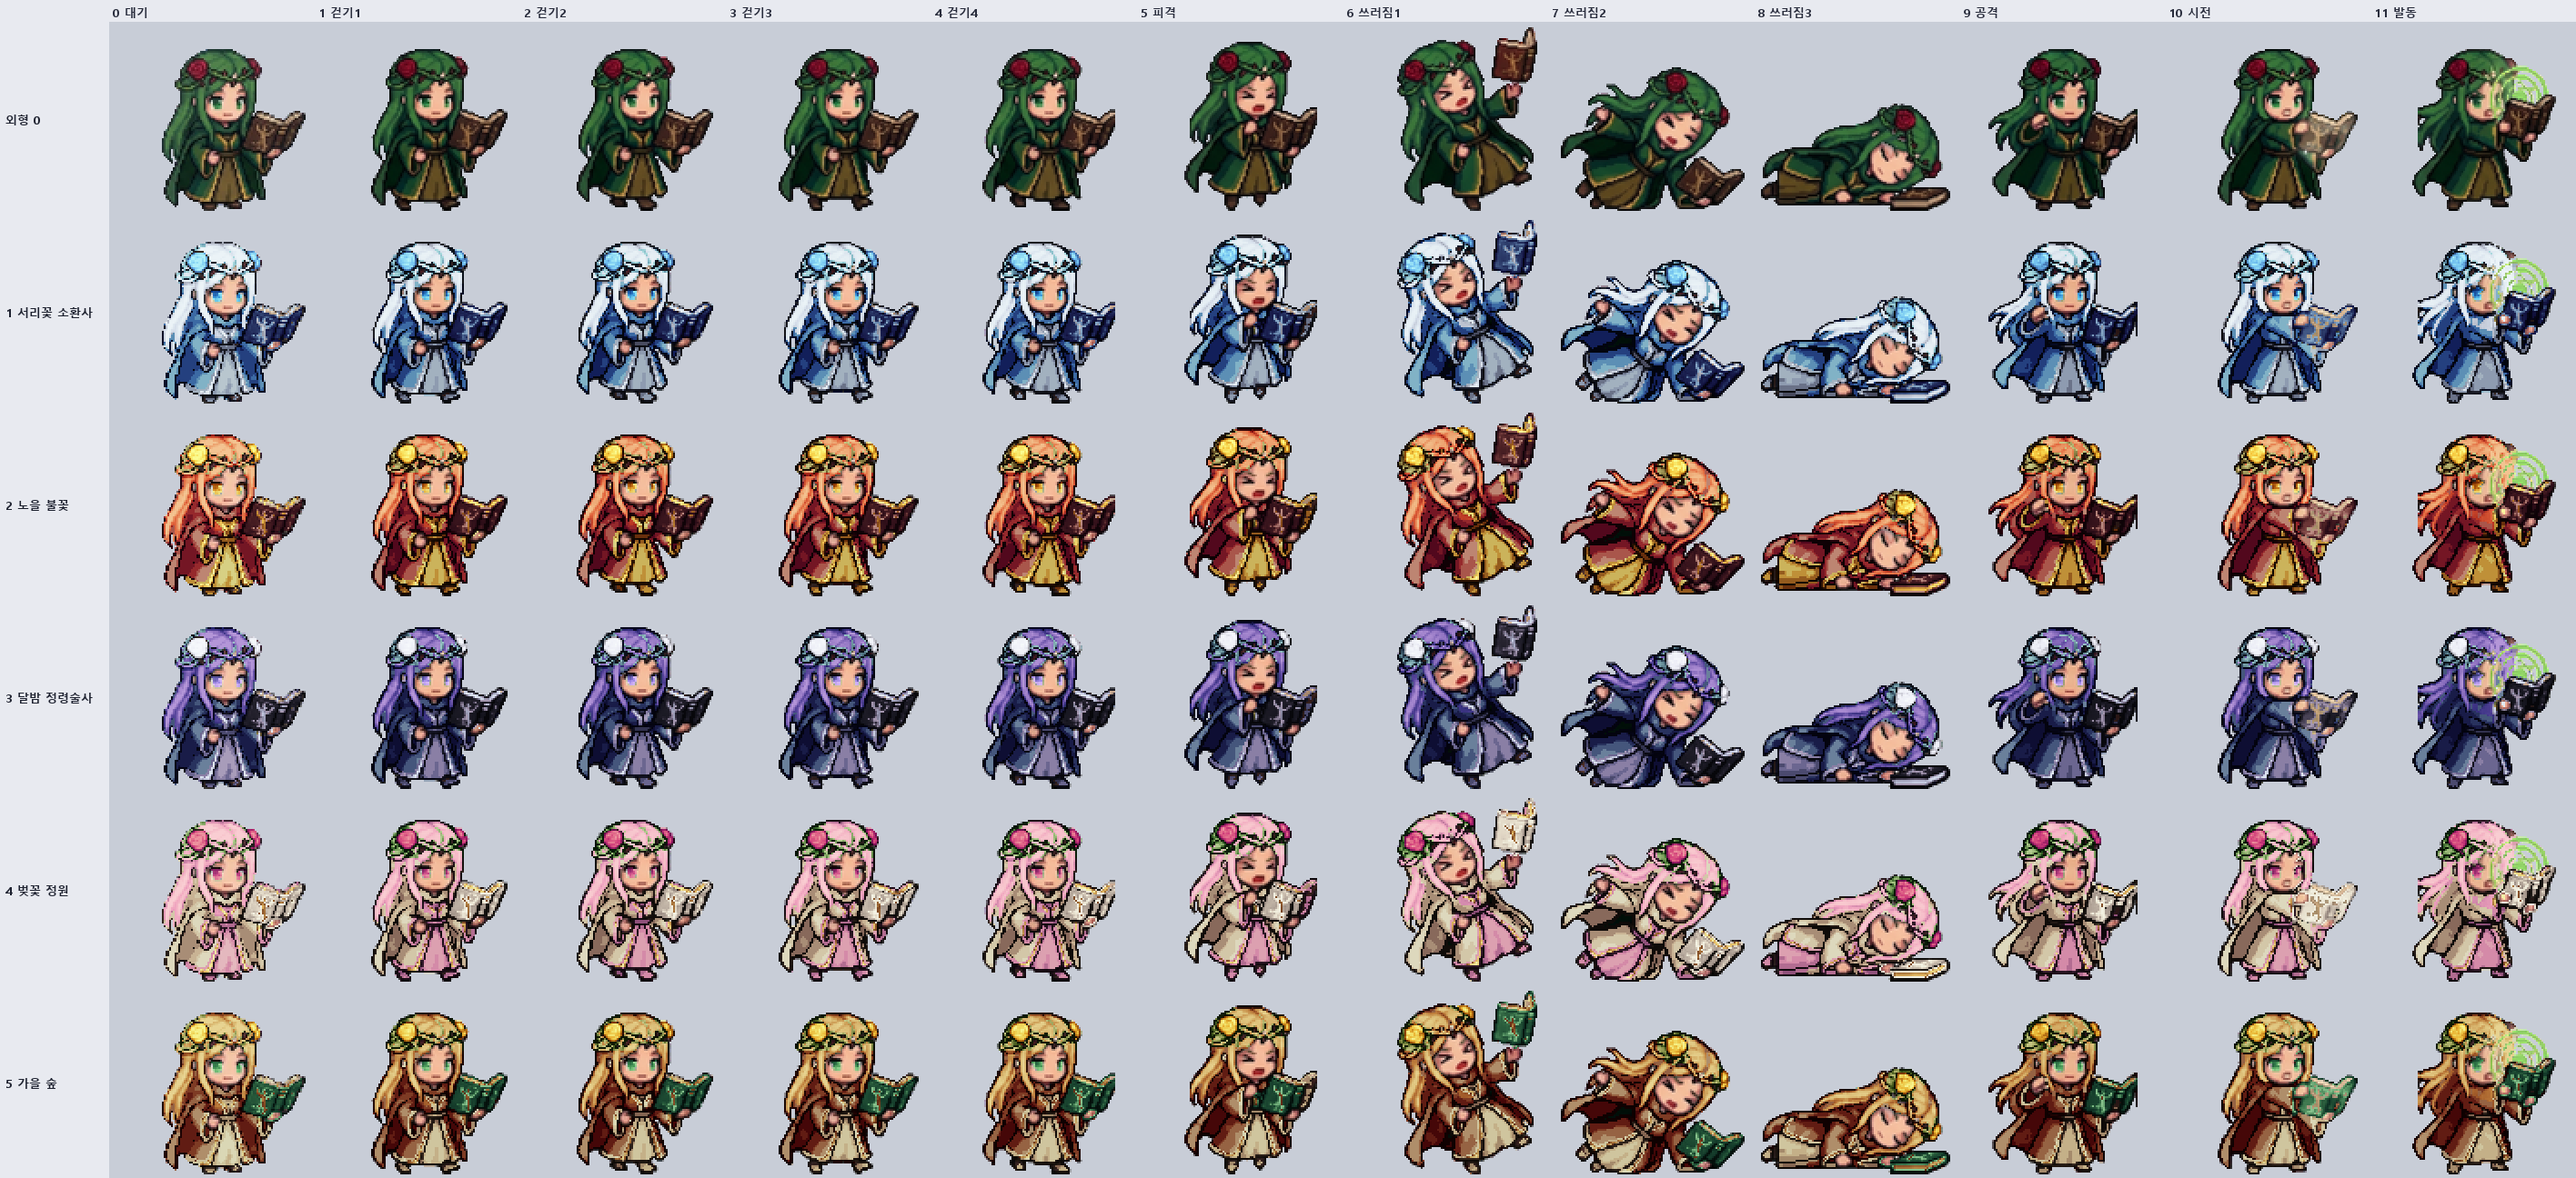
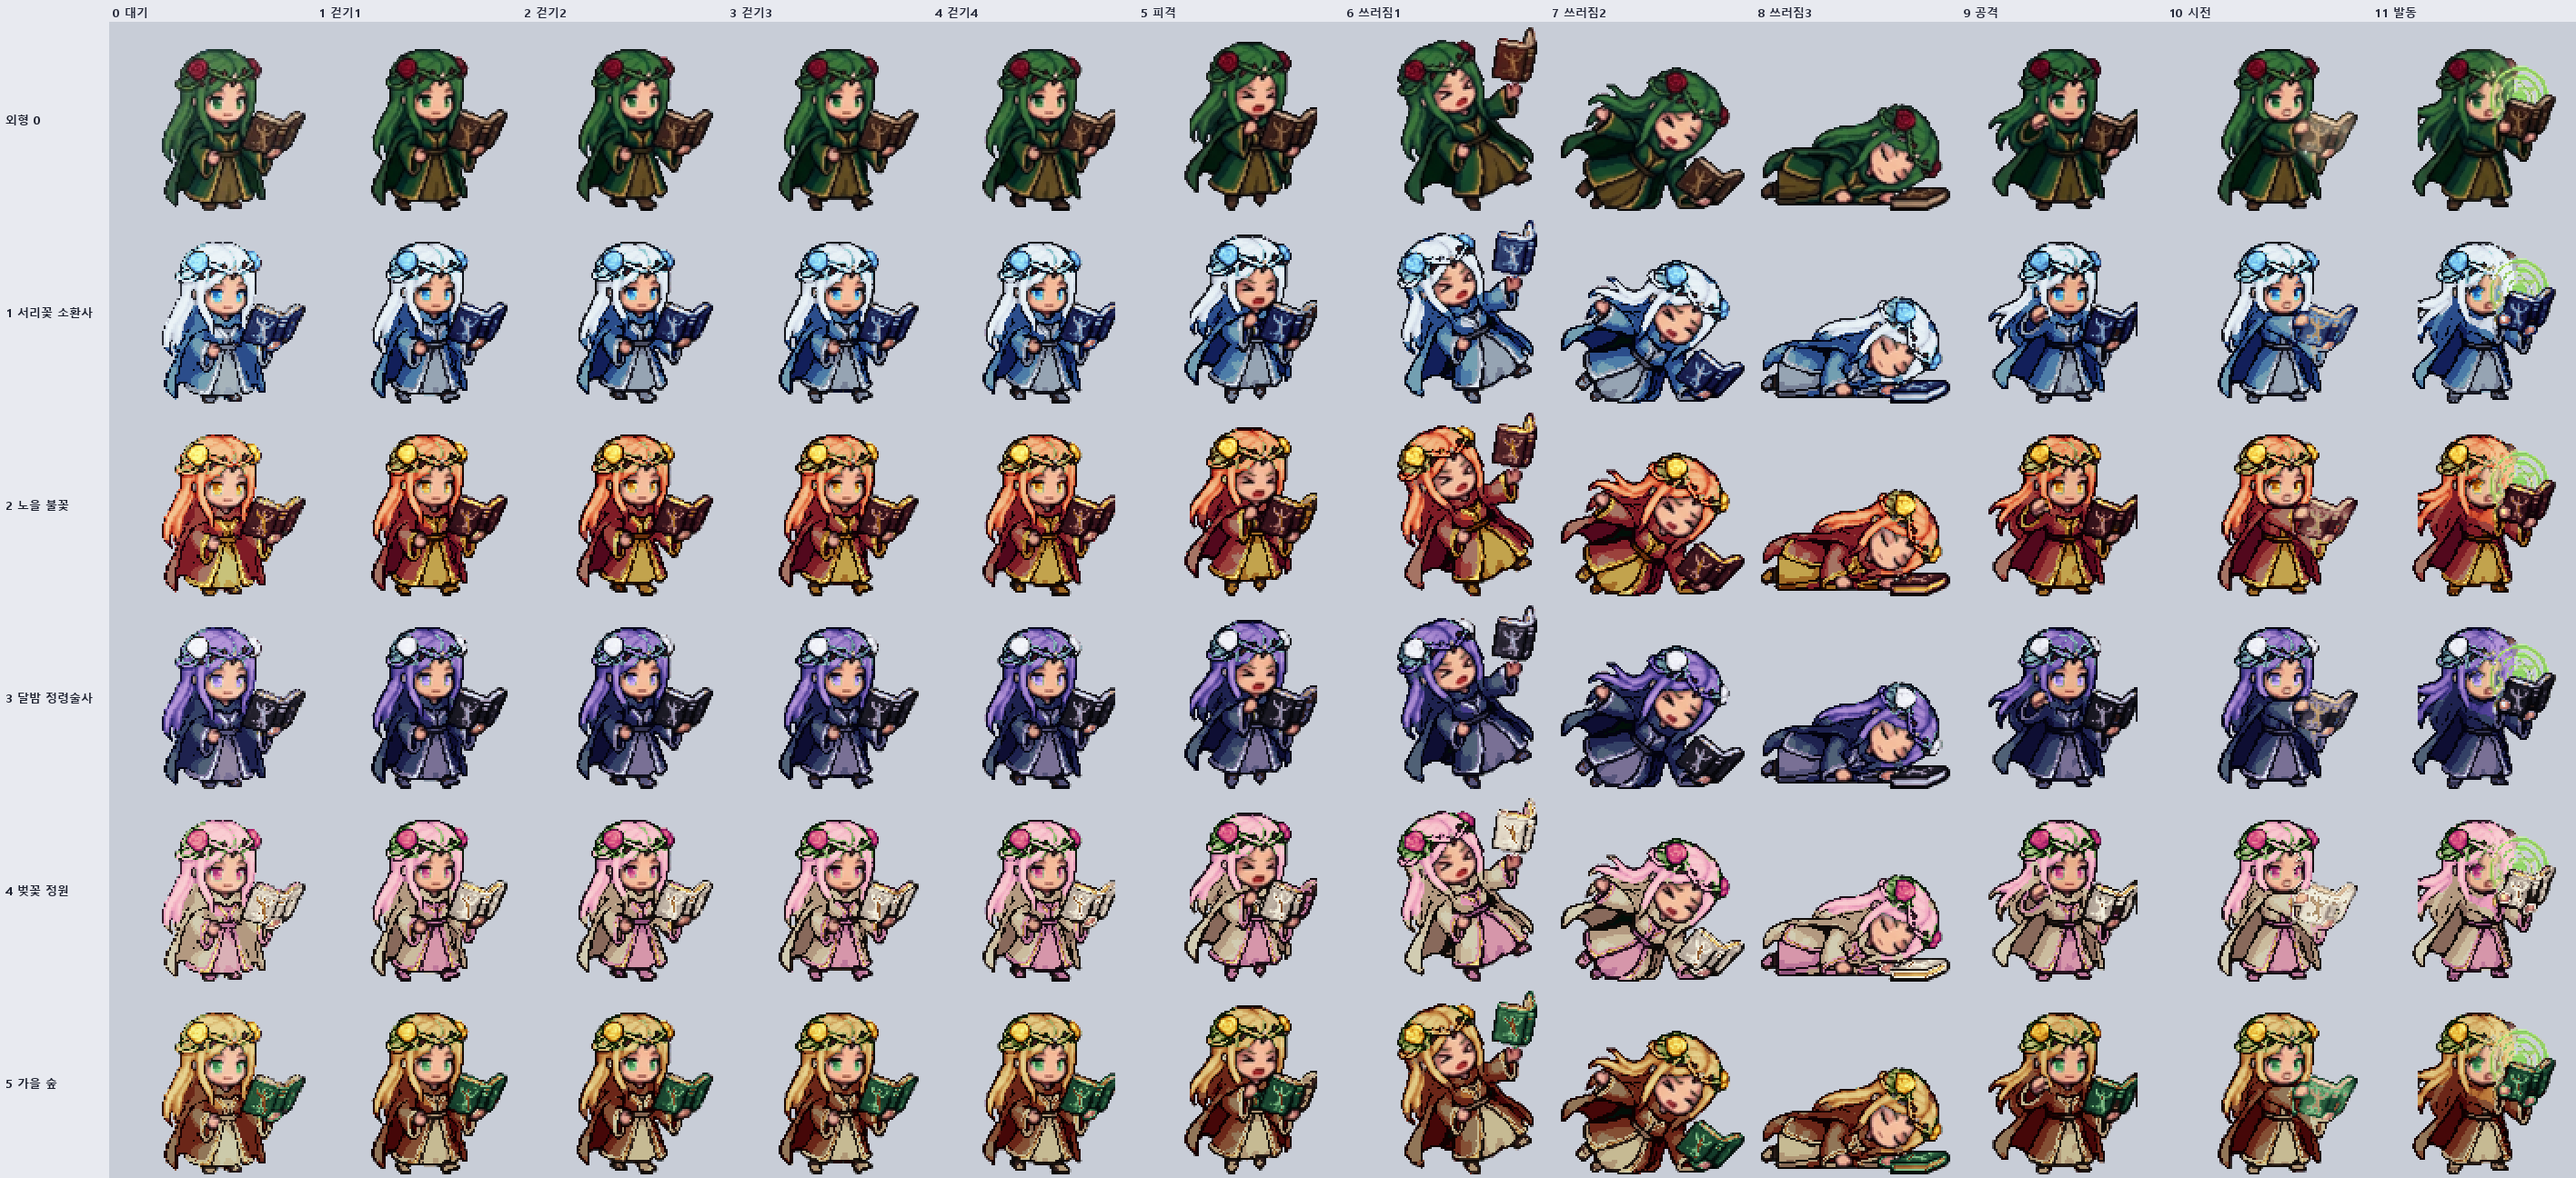
Summoner skins 1-5: no blotches on the lower hair, clothes and cloak
Hair ends:
- Below the shoulders the hair ends darken, so they failed the light-value test and were cut off into cloak colour.
- Their hue also overlaps the cloak hem (135-157), so pixels alternated between hair and robe.
- In upright frames, green under hue 148 connected to the hair now grows as hair down to hand height (2.2 face heights below the face top).
- Hair and robe are then settled by a 5x5 majority, three passes. The crown seed stays hair.

Cloak and clothes:
- The 3x3 median and 5 steps made shading bands change from pixel to pixel, which left patchy blotches.
- The light end turned salmon on the crimson cloak.
- Shading is now smoothed with a 5x5 median among same-part pixels and cut into 4 steps, and the light end drops from 0.38 to 0.15.

Dark specks:
- Isolated dark specks inside the cloth (under 3 px, not touching transparency) are no longer outline.
- They had shown as black dots on light cloth.

The idle-frame samples (docs/summoner-skin-palette.png) are rebuilt with the same clothes shading.

diff --git a/tools/summoner_variants_build.py b/tools/summoner_variants_build.py
@@ -99,11 +99,18 @@ def frame_masks(im, f):
             if m.sum() >= 12 and v[m].mean() > 0.22:   # 공격 칸 왼쪽으로 날리는 어두운 머리도
                 hair |= m
     robe = green & ~hair & ~eyes & ~guard
-    # 머리·로브 경계 잡티 고르기: 둘레 8칸 중 6칸 넘게 다른 쪽이면 그쪽으로 (두 번)
-    for _ in range(2):
-        nh = ndi.convolve(hair.astype(int), K8, mode='constant') - hair
-        nr = ndi.convolve(robe.astype(int), K8, mode='constant') - robe
-        to_r = hair & (nr >= 6) & (nh <= 1); to_h = robe & (nh >= 6) & (nr <= 1)
+    # 아래로 늘어진 머리끝: 머리에서 4방향으로 이어진 색조 148° 아래 초록은 손 높이(얼굴 위에서 얼굴 키 2.2배)까지 머리로 키움 (서 있는 칸).
+    #   머리끝은 어두워져 밝기 기준에 걸려 어깨 아래에서 망토 색으로 끊겼음. 망토 쪽으로 샌 조각은 아래 다수결이 되돌림
+    if upright:
+        grow_ok = green & ~eyes & ~guard & (h < 148) & (yy < ftop + 2.2 * fh)
+        hair = ndi.binary_propagation(hair, mask=grow_ok | hair)
+    # 머리·로브 경계 잡티 고르기: 5×5 안 머리·로브 수 다수결 (세 번). 머리끝·망토 아랫단은 색조가 겹쳐(135~157°) 한 칸씩 번갈아 잡혀 얼룩이 됐음.
+    #   폭 3칸 머리 갈래는 5×5에서 15:10으로 살아남음. 정수리 씨앗은 그대로 머리
+    K5 = np.ones((5, 5), int)
+    for _ in range(3):
+        nh = ndi.convolve(hair.astype(int), K5, mode='constant')
+        nr = ndi.convolve(robe.astype(int), K5, mode='constant')
+        to_r = hair & ~seed & (nr > nh + 2); to_h = robe & (nh > nr + 2)
         hair = (hair & ~to_r) | to_h; robe = (robe & ~to_h) | to_r
     # 화관 덩굴: 장미 둘레 5칸 + (서 있는 칸) 정수리 둘레 띠의 짙은 초록. 누운 칸은 장미 둘레만 (띠로 잡으면 머리 대부분이 덩굴이 됨)
     crownband = (yy >= ftop - 14) & (yy <= ftop + 0.15 * fh) & upright
@@ -161,6 +168,12 @@ def frame_masks(im, f):
     near_tr = ndi.binary_dilation(im[..., 3] < 40, structure=K8)
     vmax = ndi.maximum_filter(np.where(a, v, 0.0), size=3)
     edge_dark = (v < 0.22) & ~guard & (near_tr | (vmax - v >= 0.15))
+    # 외딴 어두운 점(이어진 덩어리 3픽셀 아래, 투명한 곳과 안 닿음)은 선이 아니라 옷 결 → 윤곽 아님 (밝은 옷 위 검은 점 얼룩)
+    lab_d, n_d = ndi.label(edge_dark, structure=K8)
+    if n_d:
+        sz_d = ndi.sum(edge_dark, lab_d, range(1, n_d + 1))
+        small = np.isin(lab_d, [i + 1 for i in range(n_d) if sz_d[i] < 3])
+        edge_dark &= ~(small & ~near_tr)
     for k in ('hair', 'vine', 'robe', 'skirt'):
         lines[k] |= parts[k] & edge_dark
     greenish = a & (h >= 70) & (h < 200) & (s > 0.05) & ~glow

diff --git a/docs/summoner-skin-palette.md b/docs/summoner-skin-palette.md
@@ -24,6 +24,11 @@
 
 칸별 점검에서 고친 것: 장미가 손 그늘에도 잡힘 · 누운 칸 머리가 덩굴 색 · 쓰러짐 1칸·공격 칸 왼쪽 머리가 로브 색 · 공격 칸 목 두건이 덩굴 색(옷깃 붉은 그늘이 장미로) · 망토 깊은 그늘이 원래 초록 · 시전 칸 책 종이가 치마 색
 
+3차 점검 (지적: 아래쪽 머리카락·옷·망토 얼룩):
+- 머리끝: 어깨 아래 머리끝은 어두워 밝기 기준에 걸려 망토 색으로 끊겼고, 색조가 망토 아랫단과 겹쳐(135~157°) 한 칸씩 번갈아 잡혔음 → 서 있는 칸은 머리에서 이어진 색조 148° 아래 초록을 손 높이까지 머리로 키우고, 머리·로브는 5×5 다수결로 세 번 정리
+- 망토·옷: 명암을 3×3으로 펴서 5단으로 끊었더니 단이 칸마다 들쭉날쭉해 조각 얼룩, 밝은 끝은 진홍 망토에서 연어색 → 5×5로 펴고 4단, 밝은 끝 0.38 → 0.15
+- 옷 안 외딴 어두운 점(3픽셀 아래, 투명한 곳과 안 닿음)이 윤곽 색 검은 점이 됐음 → 윤곽 아님
+
 2차 점검 (지적: 4번 윤곽 깨짐·머리와 로브 합쳐짐, 5번 책 색):
 - 윤곽: 짙은 초록을 옷·머리로 넣으면서 실루엣·머리와 로브 경계·옷 주름의 어두운 선(밝기 0.22 아래, 투명한 곳과 맞닿거나 둘레보다 0.15 넘게 어두움)까지 밝은 크림·연분홍으로 칠해져 윤곽이 끊기고 머리와 로브가 한 덩어리로 보였음 → 그 선은 그 부위 윤곽(selout)으로
 - 책: 표지 무늬(밝은 갈색 룬, 색조 18~40°)가 원래 갈색으로 남아 초록·남색 표지 위에서 살구색 얼룩 → 외형 금장식 색으로
